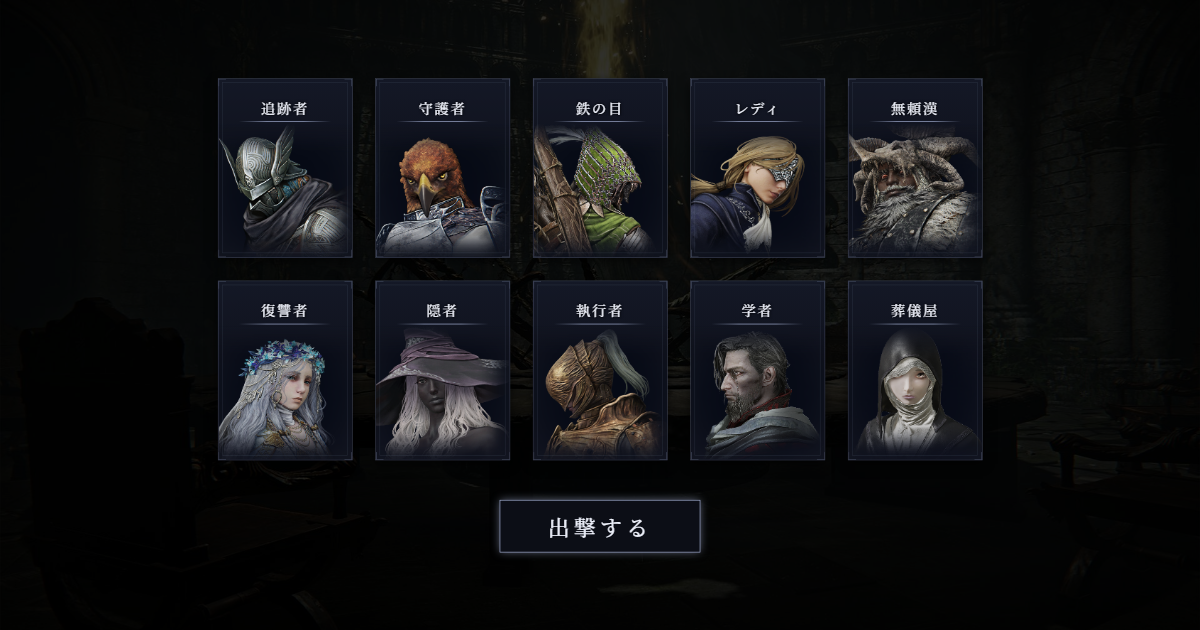
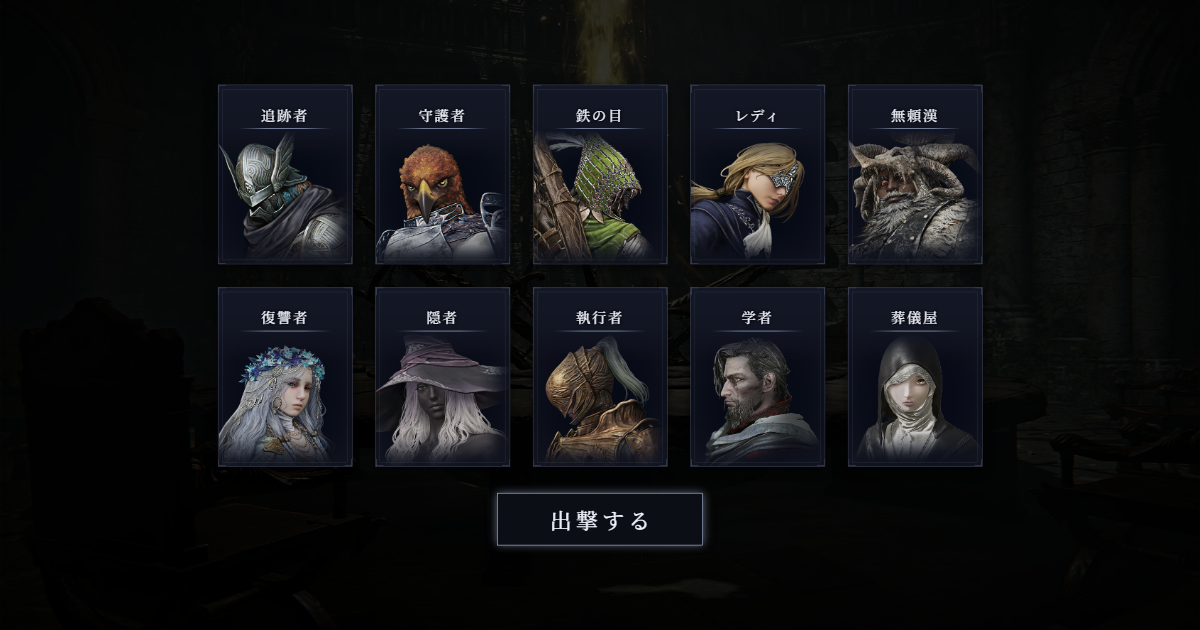
更新履歴に10/17の漏れを追記、抽選ボタンを上に寄せて文字を中央に、OGP画像を撮り直し

Changed region(s): [[0.185, 0.1206, 0.8325, 0.9048]]

diff --git a/index.html b/index.html
@@ -88,8 +88,8 @@ body.edit{background:#0f0e14;font-size:14px}
 /* 結果画面は下に名前が出るので、カード上の見出しは出さない */
 #result .cell .label{display:none}
 /* 抽選ボタン（一覧側は抽選画面の大きさに合わせて縮める。結果側は結果ごと縮むので等倍） */
-.draw-btn{--b:var(--bs,1);flex:none;margin-top:calc(80px * var(--b));padding:calc(20px * var(--b)) calc(96px * var(--b));font:inherit;font-size:calc(44px * var(--b));
-  letter-spacing:.2em;color:#eef1fb;background:rgba(14,16,26,.85);border:1px solid var(--gold);cursor:pointer;
+.draw-btn{--b:var(--bs,1);flex:none;margin-top:calc(52px * var(--b));padding:calc(20px * var(--b)) calc(96px * var(--b));font:inherit;font-size:calc(44px * var(--b));
+  letter-spacing:.2em;text-indent:.2em;color:#eef1fb;background:rgba(14,16,26,.85);border:1px solid var(--gold);cursor:pointer;
   box-shadow:0 0 calc(18px * var(--b)) var(--gold-soft);transition:opacity .3s,background .2s,box-shadow .2s}
 .draw-btn:hover{background:rgba(40,46,70,.9);box-shadow:0 0 calc(30px * var(--b)) var(--gold-soft)}
 #result .draw-btn{--b:1;margin-top:0;pointer-events:none}
@@ -400,11 +400,23 @@ var CHANGELOG = [
   {date:'2026-10-17', ja:[
     '登録できる件数を最大100件に',
     '英語版に対応',
-    'ショートカットキー（Esc・R）を追加'
+    'ショートカットキー（Esc・R）を追加',
+    '「すべてON／すべてOFF」ボタンを追加',
+    '「ご利用について」を追加',
+    'ミニカードを正方形にして、コンセプトだけを表示するように',
+    'カードのコンセプトの文字を大きく',
+    'カード一覧と結果画面の大きさの初期値を100%に',
+    'スマホでコンセプト欄が潰れないように調整'
   ], en:[
     'Raised the entry limit to 100',
     'Added English support',
-    'Added shortcut keys (Esc, R)'
+    'Added shortcut keys (Esc, R)',
+    'Added "Check All / Uncheck All" buttons',
+    'Added the "Usage" section',
+    'Made the Mini Card square, showing only the concept',
+    'Enlarged the concept text on cards',
+    'Changed the default card list and result size to 100%',
+    'Adjusted the layout so the concept field isn\'t squeezed on phones'
   ]},
   {date:'2026-10-16', ja:['公開'], en:['Released']}
 ];
